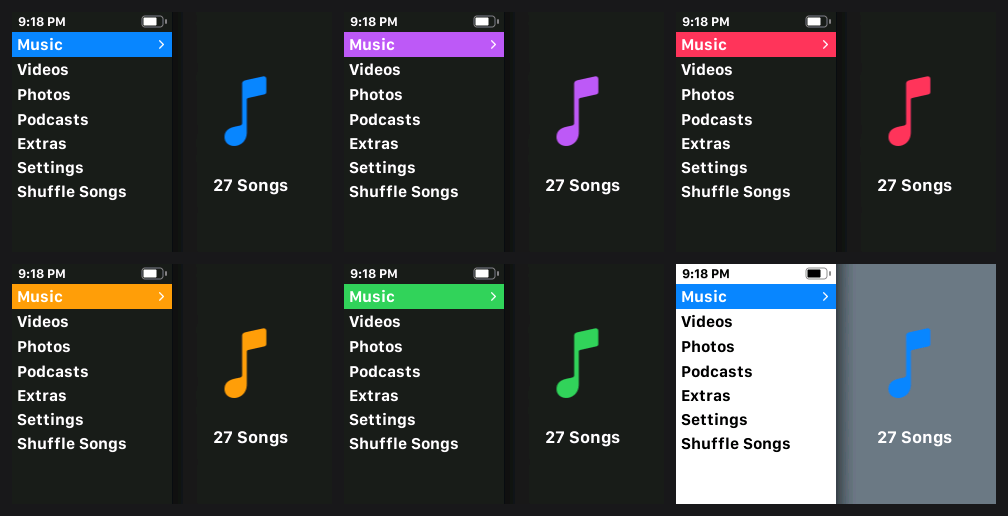
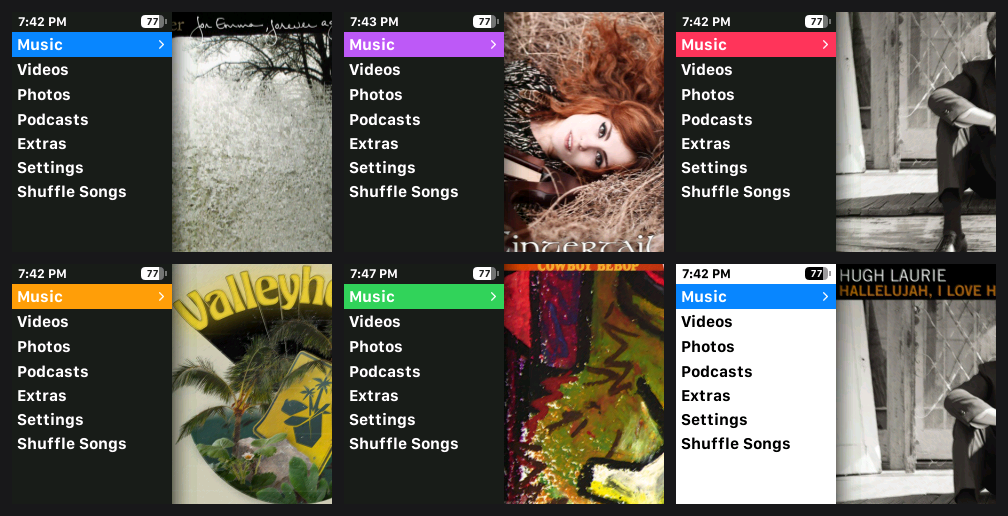
README: animated tour and new screenshots of the current UI
Animated WebP tour (boot console, main menu art pane, album to Now Playing, Now Playing row art, live switch to Light), new accent/tour/Now Playing grids and 2x single screens from the current build; stale screenshots removed; feature list adds the art pane, Hearing, video and boot console.

diff --git a/README.md b/README.md
@@ -5,9 +5,13 @@ Apple's iPod Classic 7G firmware 2.0.4, extended with C code linked into the ima
 - FLAC playback (up to 24-bit/192 kHz, decimated and dithered to 16/48)
 - an on-device library sync: copy album folders into `Music/`, eject, and the library updates,
   play counts and ratings survive renames
-- album art from cover files or embedded pictures, kept in one database file
+- album art from cover files or embedded pictures, kept in one database file, also in the main
+  menus' preview pane and the Now Playing row
 - Light, Dark and Automatic (sunset/sunrise) themes with accent colours, switched live
-- Theme, Accent Colour and Library rows in Apple's own Settings menu
+- Theme, Accent Colour, Library and Hearing rows in Apple's own Settings menu; Hearing adds a
+  loudness limit, loudness compensation, crossfeed, ear-fatigue filters and a weekly sound dose
+- TV episodes and video playback
+- first frame 4.6 s after the bootloader, with each boot stage shown on screen
 - a self-updater: drop a new image on the disk and restart
 - boots straight from the firmware partition through a Rockbox-derived bootloader; Apple's
   hibernate (instant-on) works with it
@@ -17,24 +21,30 @@ Every byte changed in Apple's image: [ospatch/HOOKS.md](ospatch/HOOKS.md).
 
 ## Screenshots
 
-The Modern style: flat bars, large accent icons, SF Compact text. Dark with five of the eight
-accent colours, and Light (bottom right):
+A boot, then the main menu's album art, an album into Now Playing, the Now Playing row with the
+playing album's cover, and a live switch to Light:
+
+![Boot, menus with album art, Now Playing and a live theme switch](docs/screenshots/tour.webp)
+
+The Modern style: flat bars, large accent icons, SF Compact text, covers from the library panning
+in the preview pane. Dark with five of the eight accent colours, and Light (bottom right):
 
 ![The main menu in five accent colours and Light](docs/screenshots/accents.png)
 
-Around the menus: Extras, Settings, a song list, Search and the hold screen while music plays:
+Around the menus: the Music menu, Albums and Songs with their covers, Settings > Hearing, the main
+menu while a song plays, the boot stages, and Light with the Theme choices:
 
-![Extras, Settings, Songs, Search and the hold screen](docs/screenshots/tour.png)
+![Music, Albums, Songs, Hearing, the Now Playing row, the boot console, Light and Theme](docs/screenshots/tour.png)
 
-Now Playing: the album cover on a blurred copy of itself, the title in the accent, a thin
-progress bar, and the shuffle choice as a flat segmented control:
+Now Playing: the album cover on a blurred copy of itself, the title in the accent and a thin
+progress bar that becomes a scrubber:
 
 ![Now Playing](docs/screenshots/now-playing.png)
 
 Single screens at twice the iPod's resolution are in [docs/screenshots](docs/screenshots). They
-are taken in the QEMU model (tools/qemu) with
-[joelheaps/qemu-ipod-classic](https://github.com/joelheaps/qemu-ipod-classic)'s display
-compositor, which draws Now Playing's text.
+are taken in the QEMU model (tools/qemu), based on
+[joelheaps/qemu-ipod-classic](https://github.com/joelheaps/qemu-ipod-classic), with its display
+layers composed as on the device.
 
 ## Layout
 - `runtime/` the code linked into the OS ("region E"); `runtime/flac/` playback and art;
